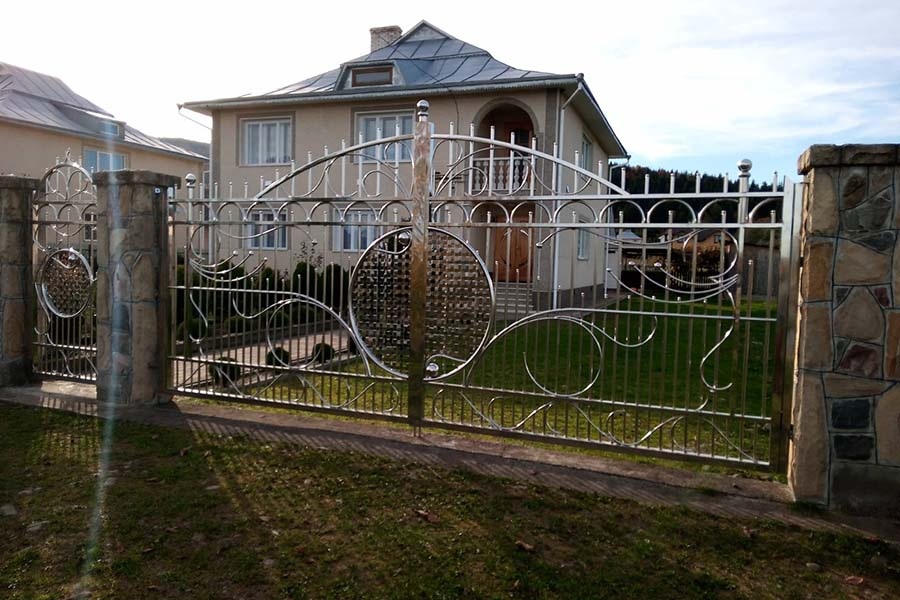
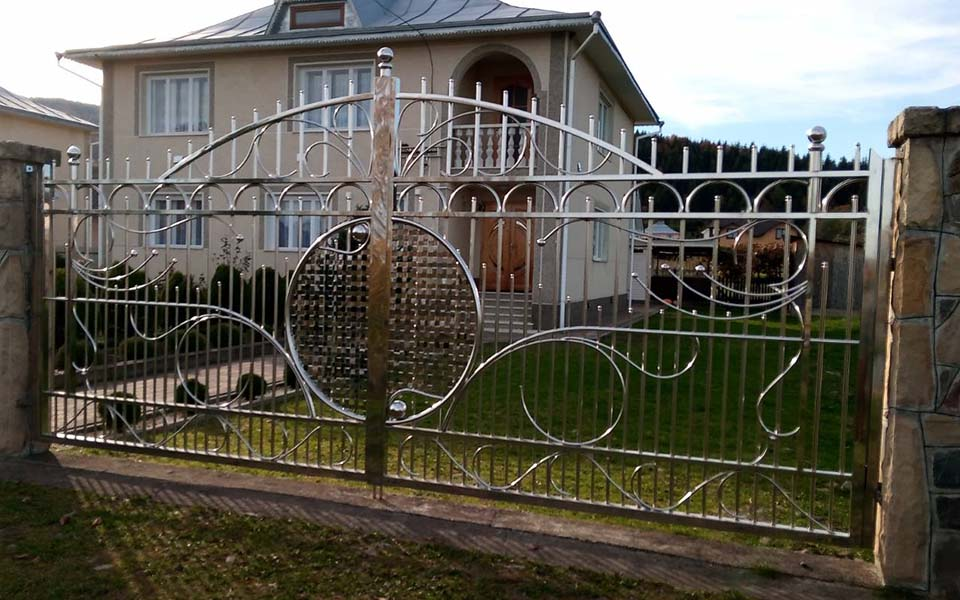
1

diff --git a/app/(home)/HomeSlaider.js b/app/(home)/HomeSlaider.js
@@ -4,28 +4,29 @@ import Image from "next/image"
 export default function HomeSlaider() {
   return (
     <section className="relative ">
-      <div
-        className="absolute w-full h-[400px] md:h-[580px] animate-slideHome transition"
-        // className="relative w-full h-[580px] animate-slideHome transition"
-      >
-        <div className="absolute w-full h-full">
-          <Image src="/images/home/DBVorota-900-600.jpg" alt="background image" fill />
-          {/* Авторозмір - імпорт свого зображення*/}
-          {/* <Image src={BVorota0} alt="background image" /> */}
+      {/* absolute  */}
+      {/* <div className="absolute w-full h-[400px] md:h-[580px] animate-slideHome"> */}
+      <div className="absolute w-full h-full md:h-[580px] animate-slideHome">
+        <div className="absolute w-full h-full ">
+          <Image
+            src="/images/home/DBVorota-900-600.jpg"
+            alt="background image"
+            fill
+            // sizes="(max-width: 768px) 100vw, (max-width: 1200px) 50vw, 66vw"  //не прпцює???
+            // style={{ objectFit: "contain" }} //Збереження пропоруцій і  зміна розмірів картинки
+            style={{ objectFit: "cover" }} //Збереження пропоруцій і розмірів з обрізанням картинки
+          />
         </div>
-        <div className="relative z-10 flex flex-col items-center justify-center h-full">
+        <div className=" relative z-10 flex flex-col items-center justify-center h-full">
           <h1 className="text-4xl font-bold top-4 text-center text-white"> Вироби з нержавійки на замовлення</h1>
-          <p className="mt-4 text-center text-3xl text-yellow-200">Якісно і надійно</p>
+          <p className="mt-4 text-center text-3xl  text-yellow-200">Використовуєм тільки із сталі AISI 304</p>
         </div>
       </div>
-      <div
-        className="p-0 relative w-full h-[400px] md:h-[580px] animate-slideHome1"
-        // className="absolute w-full h-[580px] animate-slideHome1"
-      >
-        <div className="p-0 absolute w-full h-full">
-          <Image src="/images/home/DBVorota1-900-600.jpg" alt="background image" fill />
+      <div className="relative w-full h-[400px] md:h-[580px] animate-slideHome1">
+        <div className="absolute w-full h-full ">
+          <Image src="/images/home/DBVorota1-900-600.jpg" alt="background image" fill style={{ objectFit: "cover" }} />
         </div>
-        <div className="relative z-10 flex flex-col items-center justify-center h-full">
+        <div className=" relative z-10 flex flex-col items-center justify-center h-full">
           <h1 className="text-4xl font-bold top-4 text-center text-white"> Спроектуємо, виготовимо і встановимо</h1>
           <p className="mt-4 text-center text-3xl  text-yellow-200">Використовуєм тільки із сталі AISI 304</p>
         </div>
